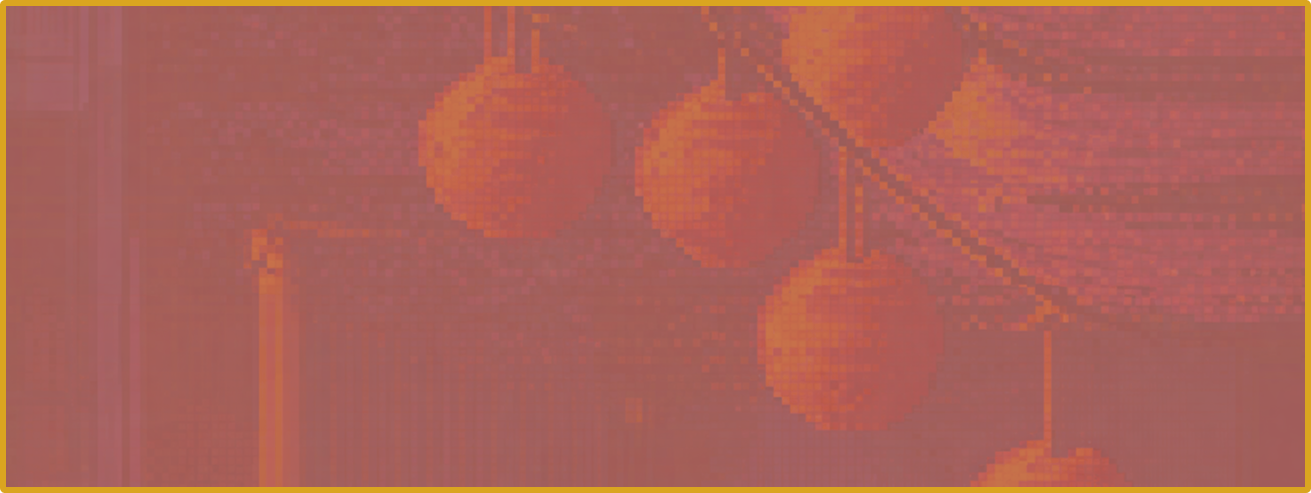
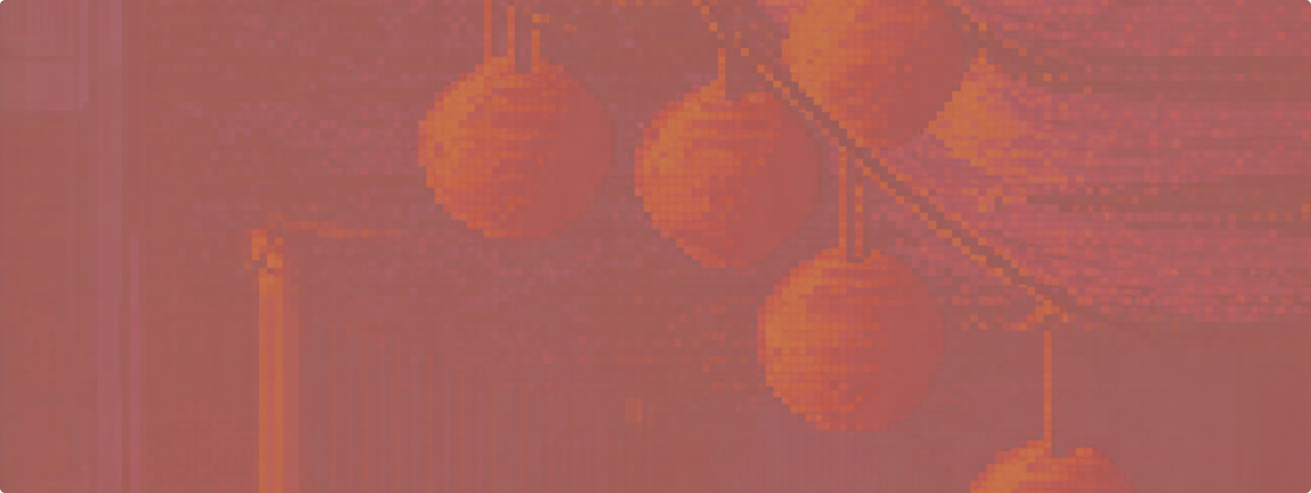
style: make sections and header  more responsive

Changed region(s): [[0.0, 0.0, 1.0, 1.0]]

diff --git a/css/aboutme.css b/css/aboutme.css
@@ -1,7 +1,7 @@
 body {
   margin: 0;
   font-family: "Pixelify Sans";
-  padding-bottom: 164px;
+  padding-bottom: 140px;
 }
 
 .tagline {
@@ -11,10 +11,16 @@ body {
   text-decoration: underline;
 }
 
+section {
+  width: 100%;
+  padding: 64px 20px;
+  display: flex;
+  justify-content: center;
+}
+
 .container {
   display: flex;
   width: 1311px;
-  height: 493px;
   padding: 40px;
   flex-direction: column;
   align-items: flex-start;
@@ -39,21 +45,13 @@ body {
 .hero-title {
   color: #fff;
   text-align: right;
-  font-size: 70px;
+  font-size: clamp(40px, 10vw, 150px);
   font-weight: 700;
   line-height: normal;
   letter-spacing: 1.5vw;
-  font-size: 150px;
 }
 
 /* About Me Section */
-.about-me {
-  width: 100%;
-  padding: 64px 20px;
-  display: flex;
-  justify-content: center;
-}
-
 .about-me .container {
   border-radius: 5px;
   border: 4px solid #8d2c2c;
@@ -94,7 +92,7 @@ body {
   min-width: 250px;
 }
 
-.about-me-col-1 {
+.col-1 {
   flex: 1;
   display: flex;
   flex-direction: column;
@@ -118,15 +116,10 @@ body {
 }
 
 /* Favourite Games Section */
-.favourite-games {
-  width: 100%;
-  padding: 64px 20px;
-  display: flex;
-  justify-content: center;
-}
-
 .favourite-games .container {
+  padding: 40px;
   border-radius: 5px;
+  border: 6px solid #daa520;
   background: url(/devsoc-web/images/about-me/fav-games-container.png) lightgray
     50% / cover no-repeat;
 }
@@ -142,35 +135,34 @@ body {
 
 .favourite-games .content {
   display: flex;
-  width: 1234px;
-  height: 272px;
   align-items: flex-start;
   flex-shrink: 0;
-  gap: 20px;
+  gap: 64px;
+  flex-wrap: wrap;
 }
 
 .favourite-games .game-block {
-  display: flex;
-  width: 283px;
-  height: 263px;
+  flex: 1 1 250px;
+  min-width: 220px;
+  max-width: 300px;
+
   padding: 30px;
+  display: flex;
   flex-direction: column;
   align-items: center;
   gap: 30px;
-  flex-shrink: 0;
   text-align: center;
 }
 
 /* Hobbies Section */
-.hobbies {
-  display: flex;
-  height: 580px;
-  padding: 64px 20px;
-  align-items: flex-start;
-  gap: 20px;
+.hobbies .tagline {
+  color: #262626;
 }
+
 .hobbies .container {
   border-radius: 5px;
+  border: 4px solid #8d2c2c;
+  padding: 40px;
   background-position: center;
   background:
     linear-gradient(
@@ -182,31 +174,53 @@ body {
       no-repeat;
 }
 
-.hobbies p {
-  color: #262626;
-  font-family: "Pixelify Sans";
-  font-size: 18px;
-  font-weight: 400;
-  line-height: 150%;
-}
-
 .hobbies .content {
   display: flex;
-  height: 339px;
   align-items: flex-start;
-  gap: 70px;
   flex-shrink: 0;
+  gap: 64px;
+  flex-wrap: wrap;
   align-self: stretch;
+  gap: 70px;
 }
 
 .hobbies .album-wrapper {
+  flex: 1 1 280px;
+  max-width: 582px;
+  min-width: 220px;
+
+  padding: 28px 28px 28px 28px;
   display: flex;
-  width: 582px;
-  height: 339px;
-  padding: 38px 28px 37px 28px;
   justify-content: center;
   align-items: center;
 
   border: 1px solid rgba(38, 38, 38, 0.29);
+  border-radius: 10px;
   background: #fff;
+}
+
+.hobbies .hobbies-col-1 {
+  display: flex;
+  flex-direction: column;
+  gap: 16px;
+}
+
+.hobbies .hobbies-col-2 {
+  width: 100%;
+  display: flex;
+  justify-content: center;
+}
+
+.hobbies .album-wrapper img {
+  width: 100%;
+  height: auto;
+  display: block;
+}
+
+.hobbies p {
+  color: #2c2c2c;
+  font-family: "Pixelify Sans";
+  font-size: 18px;
+  font-weight: 400;
+  line-height: 150%;
 }

diff --git a/about.html b/about.html
@@ -25,10 +25,12 @@
         <div class="content">
           <div class="col-left">
             <div class="about-me-col-1">
-              Hi I’m Jen.<br /><br />I am from Malaysia and I currently am a 3rd
-              year software development student. I’m still learning and
-              exploring different areas of tech, but I’m excited to grow my
-              technical skills and work on real projects with others.<br />
+              <p>
+                Hi I’m Jen.<br /><br />I am from Malaysia and I currently am a
+                3rd year software development student. I’m still learning and
+                exploring different areas of tech, but I’m excited to grow my
+                technical skills and work on real projects with others.<br />
+              </p>
               <img
                 class="junimo"
                 src="/devsoc-web/images/about-me/junimo.png"
@@ -97,20 +99,29 @@
       <div class="container">
         <h2 class="tagline">Hobbies</h2>
         <div class="content">
-          <p>
-            I really enjoy listening to music!<br /><br />
-            I love R&B and indie the most but I am drawn to all genres! Whatever
-            music sounds good I am open to listening. I am also in love with
-            guitar (although I’m not the best at it) and singing song covers.
-            <br /><br />
-            Other than that, I enjoy bouldering from time to time, and chilling
-            with the people I love!
-          </p>
-          <div class="album-wrapper">
-            <img
-              src="/devsoc-web/images/about-me/album-collage.png"
-              alt="collage of album covers of a variety of artists such as Tyler the Creator, keshi, Michael Jackson, Frank Ocean, Radiohead, Daniel Caesar, and Grent Perez."
-            />
+          <div class="col-left">
+            <div class="hobbies-col-1">
+              <p>
+                I really enjoy listening to music!<br /><br />
+                I love R&B and indie the most but I am drawn to all genres!
+                Whatever music sounds good I am open to listening. I am also in
+                love with guitar (although I’m not the best at it) and singing
+                song covers.
+                <br /><br />
+                Other than that, I enjoy bouldering from time to time, and
+                chilling with the people I love!
+              </p>
+            </div>
+          </div>
+          <div class="col-right">
+            <div class="hobbies-col-2">
+              <div class="album-wrapper">
+                <img
+                  src="/devsoc-web/images/about-me/album-collage.png"
+                  alt="collage of album covers of a variety of artists such as Tyler the Creator, keshi, Michael Jackson, Frank Ocean, Radiohead, Daniel Caesar, and Grent Perez."
+                />
+              </div>
+            </div>
           </div>
         </div>
       </div>
